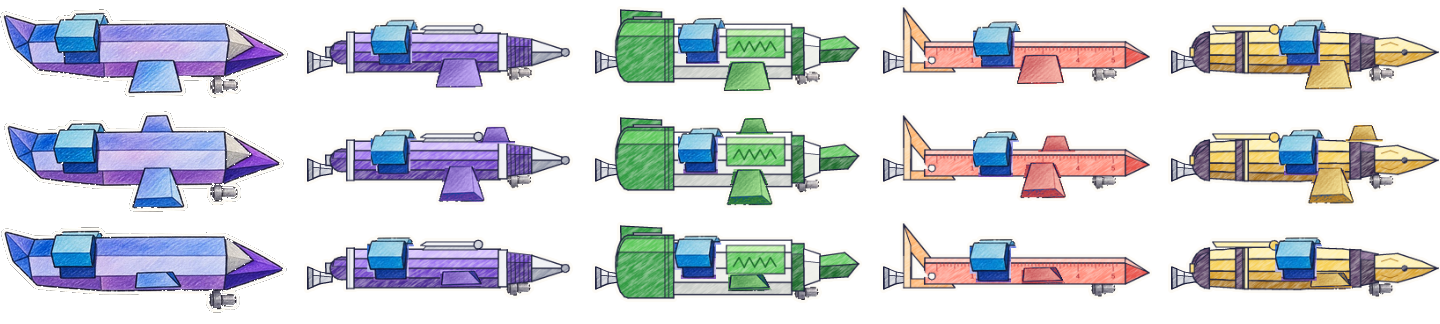
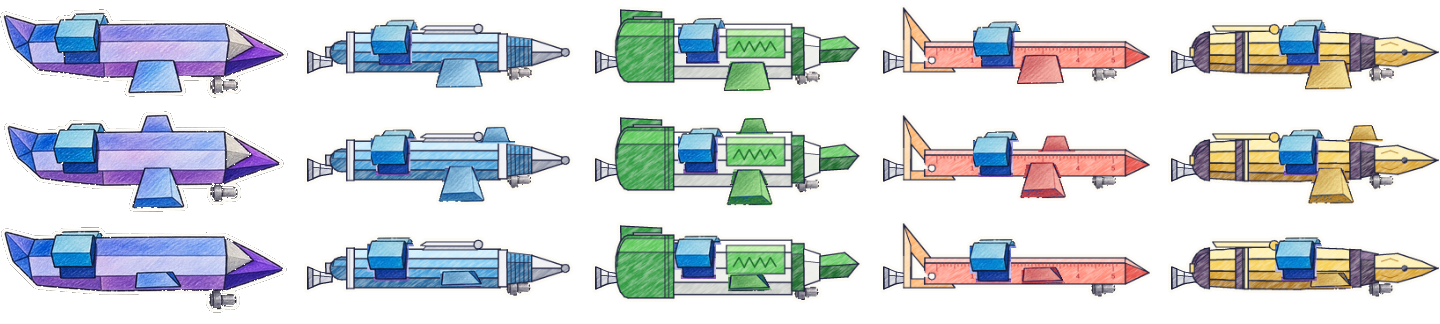
Blue starter plane, hangar preview fit, name dialog above mobile keyboard
- Starter plane: purple pen -> light blue art, named «Синий» / Blue
- Hangar style tab: shorter preview so its button clears the back button
- Pilot name dialog: lifts above the virtual keyboard while typing on touch;
  Android back only closes the keyboard instead of cancelling the rename

Changed region(s): [[0.2188, 0.4012, 0.375, 0.6173], [0.2188, 0.0926, 0.375, 0.2778], [0.2188, 0.7716, 0.375, 0.8951]]

diff --git a/tools/generate_plane_variants.py b/tools/generate_plane_variants.py
@@ -4,7 +4,7 @@ Atlas layout: 288x108 cells, rows = idle / down / up (same as plane_frames.tres)
 columns = PlaneCatalog `atlas_column` (0 = base art «Быстрый» = pencil, left untouched).
 
 Each other plane is a different piece of stationery in the same low-poly colored-pencil look:
-1 ballpoint pen (violet), 2 marker (green), 3 ruler + set square (red), 4 fountain pen (gold).
+1 ballpoint pen (light blue), 2 marker (green), 3 ruler + set square (red), 4 fountain pen (gold).
 Bodies are drawn here as flat faceted polygons with ink outline + diagonal pencil hatching;
 cabin / wing / top fin / gun are cut from the base drawing (wing recolored), so the plane
 language and the 3-frame wing animation stay the same. The white sticker rim is rebuilt last.
@@ -251,7 +251,7 @@ def rgb(hex_str: str) -> tuple[float, float, float]:
 
 
 METAL = [rgb("eef0f6"), rgb("c4c8d4"), rgb("8d93a6")]
-VIOLET = [rgb("cdb6ff"), rgb("9b72f0"), rgb("6c3fc8"), rgb("4a2a94")]
+SKY = [rgb("c6ecff"), rgb("7fcaf4"), rgb("3f9bd8"), rgb("24689f")]
 GREEN = [rgb("b6f0a0"), rgb("5cc85a"), rgb("2f9a40"), rgb("1d6a2c")]
 WHITE = [rgb("ffffff"), rgb("eceee9"), rgb("c9cdc8")]
 RED = [rgb("ffc2b4"), rgb("ff8a78"), rgb("e9524a"), rgb("b4303a")]
@@ -268,16 +268,16 @@ def pen(parts: Parts) -> np.ndarray:
     top, bottom = 30, 74
     # push button + plunger
     sk.facet([(4, 46), (10, 46), (10, 58), (4, 58)], METAL[1])
-    sk.facet(arc(22, 52, 13, 13, 90, 270) + [(30, 39), (30, 65)], VIOLET[3])
-    sk.facet([(14, 42), (30, 42), (30, 50), (12, 50)], VIOLET[2], 0.9)
+    sk.facet(arc(22, 52, 13, 13, 90, 270) + [(30, 39), (30, 65)], SKY[3])
+    sk.facet([(14, 42), (30, 42), (30, 50), (12, 50)], SKY[2], 0.9)
     # barrel (slight taper)
-    bands(30, 202, [top, 41, 52, 63, bottom], [VIOLET[0], VIOLET[1], VIOLET[2], VIOLET[3]], sk)
+    bands(30, 202, [top, 41, 52, 63, bottom], [SKY[0], SKY[1], SKY[2], SKY[3]], sk)
     sk.facet([(28, top - 1), (36, top - 1), (36, bottom + 1), (28, bottom + 1)], METAL[0])
     sk.line([(31, top + 1), (31, bottom - 1)], 0.8, METAL[2])
     # front ring + ribbed grip
     sk.facet([(200, top + 1), (210, top + 1), (210, bottom - 1), (200, bottom - 1)], METAL[0])
-    sk.facet([(210, 34), (238, 37), (238, 67), (210, 70)], VIOLET[3])
-    sk.facet([(210, 34), (238, 37), (238, 46), (210, 45)], VIOLET[2], 0.9)
+    sk.facet([(210, 34), (238, 37), (238, 67), (210, 70)], SKY[3])
+    sk.facet([(210, 34), (238, 37), (238, 46), (210, 45)], SKY[2], 0.9)
     for x in range(214, 237, 5):
         sk.line([(x, 35.5 + (x - 210) * 0.1), (x, 68.5 - (x - 210) * 0.1)], 0.9)
     # metal cone + ball
@@ -290,7 +290,7 @@ def pen(parts: Parts) -> np.ndarray:
     sk.facet(arc(177, 25, 5, 5, 0, 360, 12), METAL[1], 1.2)
     body = sk.result()
     return assemble(body, parts, cabin_dx=0, cabin_dy=2, top=top, bottom=bottom,
-                    fin_dx=40, wing_dx=0, gun_dx=0, gun_bottom=69, wing_ramp=(VIOLET[3], VIOLET[0]))
+                    fin_dx=40, wing_dx=0, gun_dx=0, gun_bottom=69, wing_ramp=(SKY[3], SKY[0]))
 
 
 def marker(parts: Parts) -> np.ndarray:
